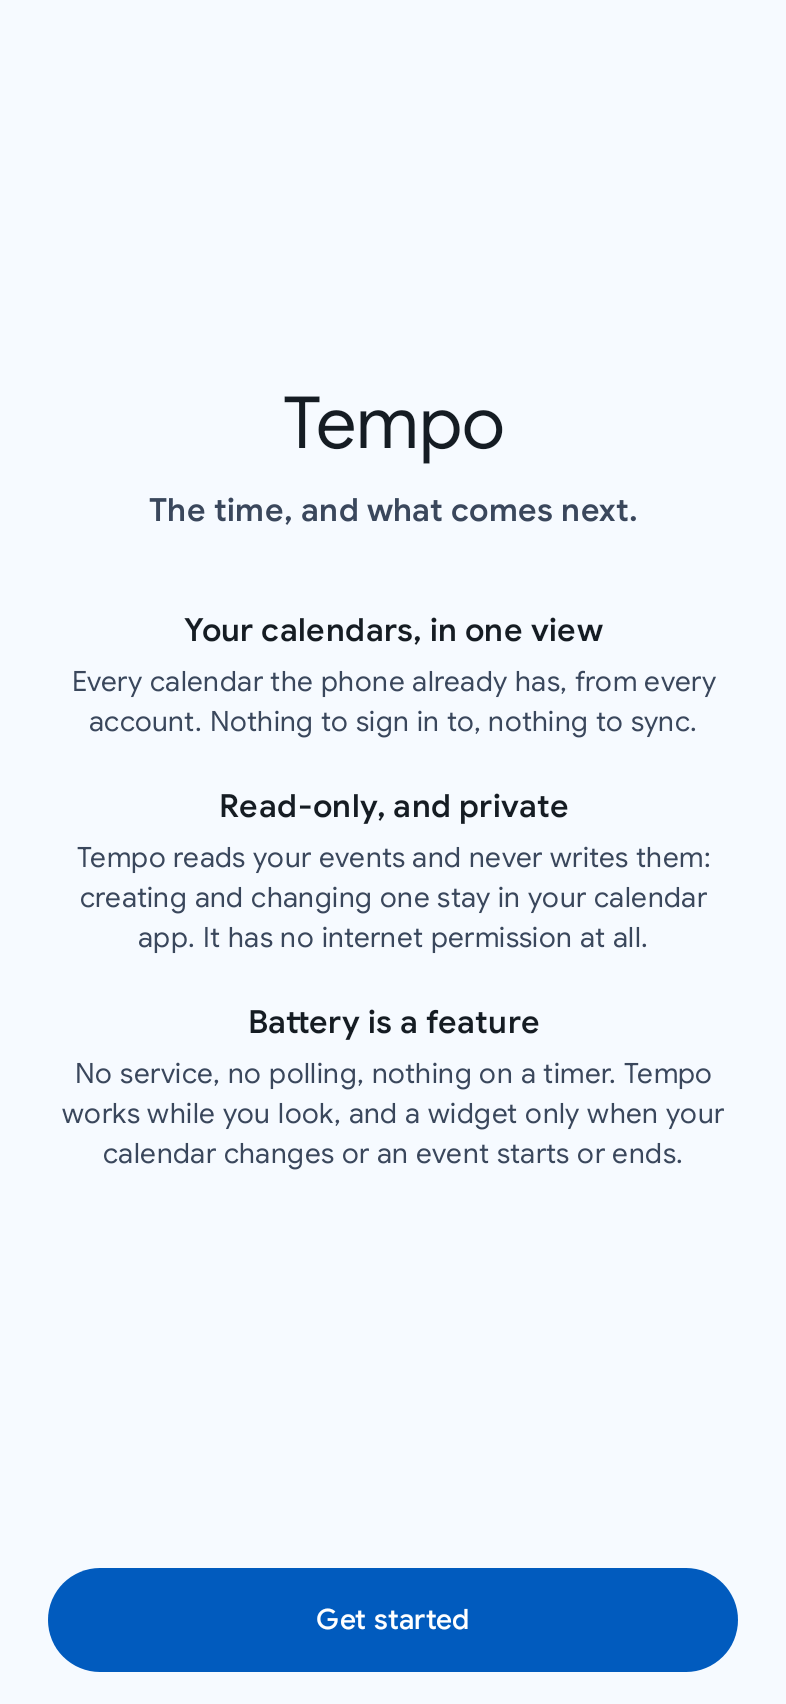
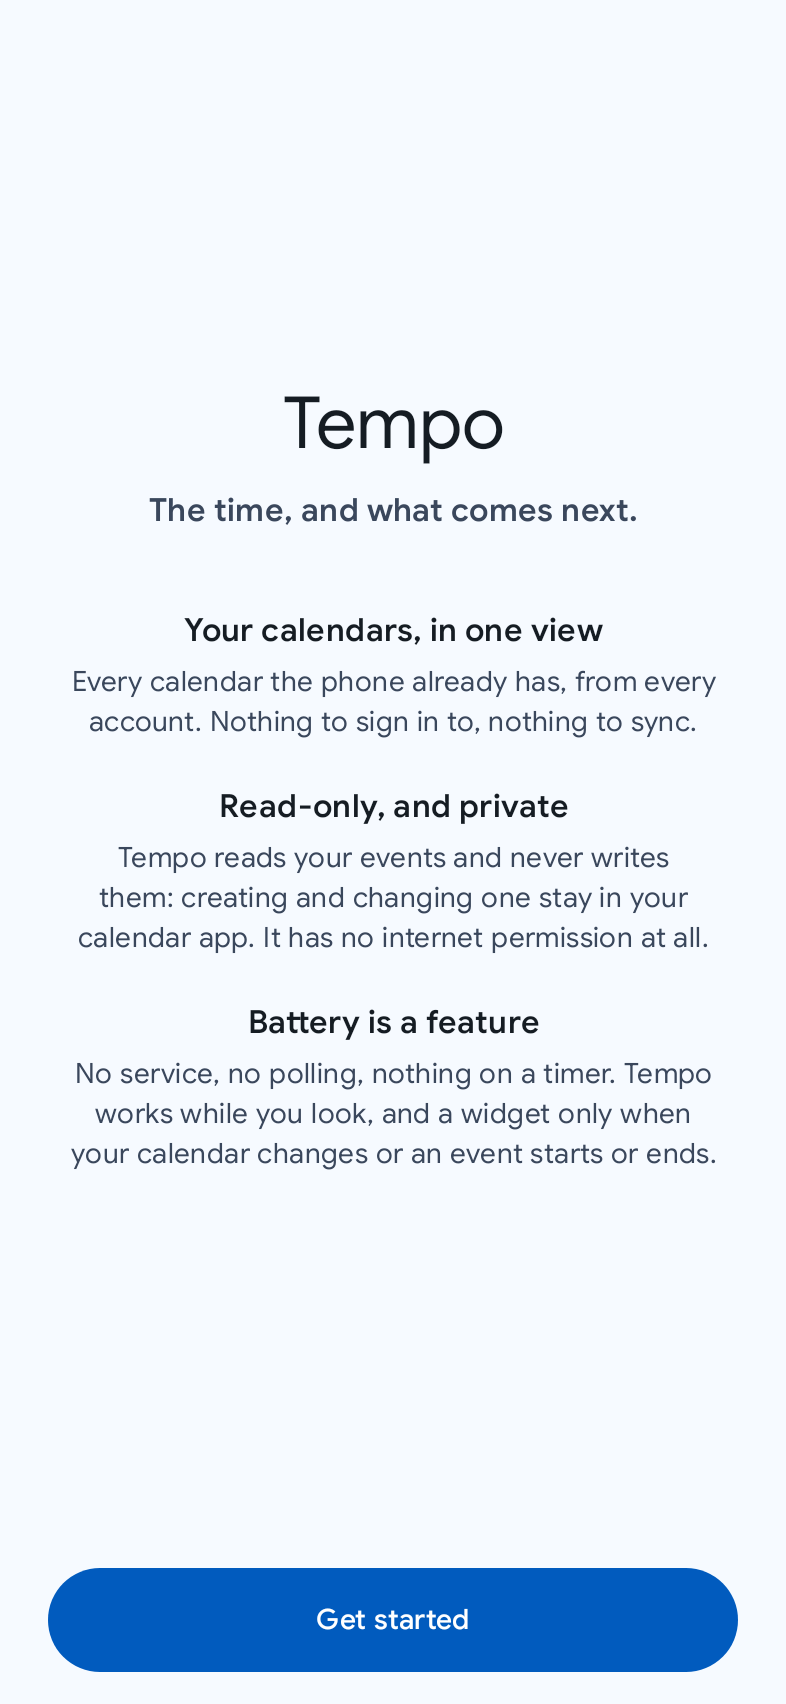
The first run's lines balanced: no word alone on a centred line's end
balanced() in the design system (LineBreak.Heading), taken by every centred text of the first
run, as in the four apps. onboarding.png regenerated. PLANNING §15, 12 Nov 2026.

Claude-Session: https://claude.ai/code/session_016e4mBJ1NQgEKgaUE8aKLf3

Changed region(s): [[0.0916, 0.4977, 0.8855, 0.5599], [0.0916, 0.6532, 0.916, 0.6843]]

diff --git a/feature/onboarding/src/main/kotlin/com/callbackdev/tempo/feature/onboarding/OnboardingScreen.kt b/feature/onboarding/src/main/kotlin/com/callbackdev/tempo/feature/onboarding/OnboardingScreen.kt
@@ -63,6 +63,7 @@ import com.callbackdev.tempo.core.data.widget.TempoWidget
 import com.callbackdev.tempo.core.designsystem.icons.TempoIcons
 import com.callbackdev.tempo.core.designsystem.theme.GroupShape
 import com.callbackdev.tempo.core.designsystem.theme.TempoMotion
+import com.callbackdev.tempo.core.designsystem.theme.balanced
 import com.callbackdev.tempo.core.designsystem.theme.padding
 import com.callbackdev.tempo.core.designsystem.theme.pageGutter
 import com.callbackdev.tempo.core.designsystem.theme.reducedMotion
@@ -237,7 +238,7 @@ private fun BottomBar(step: OnboardingStep, permission: CalendarPermission, acti
         if (asking) {
             Text(
                 text = stringResource(R.string.onboarding_calendar_later),
-                style = MaterialTheme.typography.bodySmall,
+                style = MaterialTheme.typography.bodySmall.balanced(),
                 color = MaterialTheme.colorScheme.onSurfaceVariant,
                 textAlign = TextAlign.Center,
             )
@@ -265,7 +266,7 @@ private fun Modifier.stepHeading(step: OnboardingStep): Modifier {
 private fun PageTitle(text: String, step: OnboardingStep) {
     Text(
         text = text,
-        style = MaterialTheme.typography.headlineMedium,
+        style = MaterialTheme.typography.headlineMedium.balanced(),
         textAlign = TextAlign.Center,
         modifier = Modifier.stepHeading(step),
     )
@@ -276,7 +277,7 @@ private fun PageTitle(text: String, step: OnboardingStep) {
 private fun PageBody(text: String) {
     Text(
         text = text,
-        style = MaterialTheme.typography.bodyLarge,
+        style = MaterialTheme.typography.bodyLarge.balanced(),
         color = MaterialTheme.colorScheme.onSurfaceVariant,
         textAlign = TextAlign.Center,
     )
@@ -291,14 +292,14 @@ private fun PageBody(text: String) {
 private fun WelcomePage() {
     Text(
         text = stringResource(R.string.onboarding_app_name),
-        style = MaterialTheme.typography.displaySmall,
+        style = MaterialTheme.typography.displaySmall.balanced(),
         textAlign = TextAlign.Center,
         modifier = Modifier.stepHeading(OnboardingStep.WELCOME),
     )
     Spacer(Modifier.height(8.dp))
     Text(
         text = stringResource(R.string.onboarding_tagline),
-        style = MaterialTheme.typography.titleMedium,
+        style = MaterialTheme.typography.titleMedium.balanced(),
         color = MaterialTheme.colorScheme.onSurfaceVariant,
         textAlign = TextAlign.Center,
     )
@@ -317,10 +318,14 @@ private fun Promise(title: Int, body: Int) {
         horizontalAlignment = Alignment.CenterHorizontally,
         modifier = Modifier.fillMaxWidth(),
     ) {
-        Text(stringResource(title), style = MaterialTheme.typography.titleMedium, textAlign = TextAlign.Center)
+        Text(
+            stringResource(title),
+            style = MaterialTheme.typography.titleMedium.balanced(),
+            textAlign = TextAlign.Center,
+        )
         Text(
             stringResource(body),
-            style = MaterialTheme.typography.bodyMedium,
+            style = MaterialTheme.typography.bodyMedium.balanced(),
             color = MaterialTheme.colorScheme.onSurfaceVariant,
             textAlign = TextAlign.Center,
         )
@@ -374,7 +379,7 @@ private fun WidgetPage(offer: WidgetOffer, pin: (TempoWidget) -> Unit) {
         Spacer(Modifier.height(20.dp))
         Text(
             text = stringResource(R.string.onboarding_widget_placed),
-            style = MaterialTheme.typography.bodyMedium,
+            style = MaterialTheme.typography.bodyMedium.balanced(),
             color = MaterialTheme.colorScheme.onSurfaceVariant,
             textAlign = TextAlign.Center,
             modifier = Modifier.testTag(OnboardingTags.PLACED),
@@ -383,7 +388,7 @@ private fun WidgetPage(offer: WidgetOffer, pin: (TempoWidget) -> Unit) {
         Spacer(Modifier.height(20.dp))
         Text(
             text = stringResource(R.string.onboarding_widget_manual),
-            style = MaterialTheme.typography.bodyMedium,
+            style = MaterialTheme.typography.bodyMedium.balanced(),
             color = MaterialTheme.colorScheme.onSurfaceVariant,
             textAlign = TextAlign.Center,
         )

diff --git a/core/designsystem/src/main/kotlin/com/callbackdev/tempo/core/designsystem/theme/Type.kt b/core/designsystem/src/main/kotlin/com/callbackdev/tempo/core/designsystem/theme/Type.kt
@@ -9,6 +9,7 @@ import androidx.compose.ui.text.font.Font
 import androidx.compose.ui.text.font.FontFamily
 import androidx.compose.ui.text.font.FontVariation
 import androidx.compose.ui.text.font.FontWeight
+import androidx.compose.ui.text.style.LineBreak
 import androidx.compose.ui.unit.em
 import androidx.compose.ui.unit.sp
 import com.callbackdev.tempo.core.designsystem.R
@@ -139,3 +140,10 @@ val LocalTempoType = staticCompositionLocalOf { tempoTypeFor(GoogleSansFamily) }
 
 /** Any style, with tabular figures. */
 fun TextStyle.tabular(): TextStyle = copy(fontFeatureSettings = TABULAR)
+
+/**
+ * Any style, its lines balanced: a few lines of about one width, never a word alone on the last.
+ * For a short text that stands on its own, centred (a first run's title, sentence and promises);
+ * a long one reads better by the paragraph.
+ */
+fun TextStyle.balanced(): TextStyle = copy(lineBreak = LineBreak.Heading)

diff --git a/PLANNING.md b/PLANNING.md
@@ -786,3 +786,20 @@ the card placed or added by hand.
 **Checked.** `OnboardingScreenTest` (the calendar's page moves on with «Continue»);
 `onboarding.png` regenerated (its button reads «Get started») and looked at; the README's alt text
 follows. `CHANGELOG.md` [Unreleased].
+
+### The first run's lines balanced, in the four apps (owner, 12 Nov 2026)
+
+**Asked.** After the review above, the owner: if a word alone at the end of a line should be
+fixed in Passo too, it is fixed in all four repositories. It should: the first run's texts are
+centred and short, where «…niente da / sincronizzare.» or «…accesso / a internet.» reads as a
+slip; the budget app already broke them balanced.
+
+**What changed.** `:core:designsystem` gains `balanced()` (`LineBreak.Heading`: lines of about
+one width, never a word alone on the last), and every centred text of the first run takes it: the
+titles, the sentence, the promises, the bodies, the line under the calendar's button, the widget
+page's notes. Only the first run: the rest of the app keeps its breaks until a review of its own
+looks at it screen by screen.
+
+**Checked.** The onboarding's tests and their screenshots (Italian, twice the text size);
+`onboarding.png` regenerated and looked at.
+
